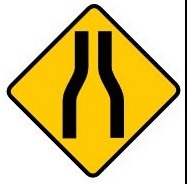
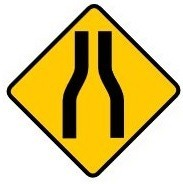
Refine grid layouts for parking/warning/roadwork sections, fix crop defects
- Restricted parking: wide 2-col spans for clearway/EV/accessible signs,
  4-col span for Australia Post box parking; removed stray top black
  line from special-event-clearway-sign-a/b
- Ways to park: full-row layout (figuresGrid cols:1)
- Warning signs: split warning-signs-1.jpg into 3 caption-free images
  (cross-road-ahead, T-intersection give-way, two-lanes-oncoming-traffic);
  fixed stray black line on right edge of two-lanes-oncoming-traffic-sign
  and 10 other diamond signs with an out-of-bounds crop; re-cropped
  children-may-cross/bicycles-ahead/slippery-when-wet/steep-descent from
  the source PDF to fix clipped diamond tops; wrote full Dip caption text
- Roadworks: regrouped worker/traffic-controller signs onto one row,
  widened the roadwork-arrow-vehicle figure to 2 columns
- Lights and horns: full-row layout
- Added explicit background to .hbnav to prevent a transparent gap
  showing through during sticky-scroll repaint

Changed region(s): [[0.0273, 0.0, 1.0, 1.0], [0.3825, 0.163, 0.6284, 0.7609]]

diff --git a/data/handbook.js b/data/handbook.js
@@ -1782,17 +1782,17 @@ window.HANDBOOK = [
         "page": 160,
         "figures": [
           { "src": "images-handbook/no-stopping-sign.jpg", "caption": "'No stopping' sign: no stopping to the left or right of the sign." },
-          { "src": "images-handbook/clearway-end-signs.jpg", "caption": "You must not park between a 'Clearway' and 'End clearway' sign during the times shown." },
-          { "src": "images-handbook/special-event-clearway-sign-a.jpg", "caption": "Special event clearway sign." },
-          { "src": "images-handbook/special-event-clearway-sign-b.jpg", "caption": "Special event clearway sign, roadside version." },
-          { "src": "images-handbook/restricted-parking-area-signs.jpg", "caption": "'Restricted parking area' and 'End restricted parking area' signs." },
+          { "src": "images-handbook/clearway-end-signs.jpg", "caption": "You must not park between a 'Clearway' and 'End clearway' sign during the times shown.", "wide": true },
+          { "src": "images-handbook/special-event-clearway-sign-a.jpg", "caption": "Special event clearway sign.", "wide": true },
+          { "src": "images-handbook/special-event-clearway-sign-b.jpg", "caption": "Special event clearway sign, roadside version.", "wide": true },
+          { "src": "images-handbook/restricted-parking-area-signs.jpg", "caption": "'Restricted parking area' and 'End restricted parking area' signs.", "wide": true },
           { "src": "images-handbook/hourly-parking-signs.jpg", "caption": "Hourly parking signs (7P, quarter-hour, unlimited) show the days and hours parking is allowed." },
-          { "src": "images-handbook/ev-parking-signs-top.jpg", "caption": "EV parking — some spots allow any EV, others only while charging." },
-          { "src": "images-handbook/ev-parking-signs-bottom.jpg", "caption": "EV parking — time-limited spots, some only while charging." },
-          { "src": "images-handbook/accessible-parking-sign.jpg", "caption": "Accessible parking sign — requires a current Mobility Parking Scheme (MPS) permit." },
+          { "src": "images-handbook/ev-parking-signs-top.jpg", "caption": "EV parking — some spots allow any EV, others only while charging.", "wide": true },
+          { "src": "images-handbook/ev-parking-signs-bottom.jpg", "caption": "EV parking — time-limited spots, some only while charging.", "wide": true },
+          { "src": "images-handbook/accessible-parking-sign.jpg", "caption": "Accessible parking sign — requires a current Mobility Parking Scheme (MPS) permit.", "wide": true },
           { "src": "images-handbook/special-event-parking-area-sign.jpg", "caption": "Special event parking area sign — capped parking time unless you hold a permit." },
           { "src": "images-handbook/motorcycle-parking-sign.jpg", "caption": "Motorcycle parking sign — motorcycle-only between the signs." },
-          { "src": "images-handbook/australia-post-box-parking.jpg", "caption": "Parking at least 3m away from an Australia Post box." },
+          { "src": "images-handbook/australia-post-box-parking.jpg", "caption": "Parking at least 3m away from an Australia Post box.", "span": 4 },
           { "src": "images-handbook/taxi-zone-sign.jpg", "caption": "Taxi zone sign — taxi zone on both sides of the sign." },
           { "src": "images-handbook/bus-zone-sign.jpg", "caption": "Bus zone sign — bus zone on both sides of the sign." },
           { "src": "images-handbook/loading-zone-sign.jpg", "caption": "Loading zone sign — loading zone to the left of the sign." },
@@ -1833,6 +1833,7 @@ window.HANDBOOK = [
           { "src": "images-handbook/parallel-parking-1m.jpg", "caption": "Parking at least 1m in front of and back from other parked vehicles." },
           { "src": "images-handbook/angle-parking.jpg", "caption": "Vehicles parking front to the kerb for 45-degree angle parking." }
         ],
+        "figuresGrid": { "cols": 1 },
         "bullets": [],
         "tables": [
           {
@@ -1864,7 +1865,9 @@ window.HANDBOOK = [
         "title": "Warning signs",
         "page": 167,
         "figures": [
-          { "src": "images-handbook/warning-signs-1.jpg", "caption": "'Cross road ahead', T-intersection give-way, and 'changing to two lanes of oncoming traffic' warning signs." },
+          { "src": "images-handbook/cross-road-ahead-sign.jpg", "caption": "Cross road ahead.", "newRow": true },
+          { "src": "images-handbook/t-intersection-give-way-sign.jpg", "caption": "T-intersection give way." },
+          { "src": "images-handbook/two-lanes-oncoming-traffic-sign.jpg", "caption": "Changing to two lanes of oncoming traffic." },
           { "src": "images-handbook/side-road-ahead-sign.jpg", "caption": "Side road ahead.", "newRow": true },
           { "src": "images-handbook/road-curves-right-sign.jpg", "caption": "Road ahead curves to the right." },
           { "src": "images-handbook/sharp-right-turn-sign.jpg", "caption": "Sharp right turn ahead." },
@@ -1885,7 +1888,7 @@ window.HANDBOOK = [
           { "src": "images-handbook/temporary-traffic-hazard-sign.jpg", "caption": "Temporary traffic hazard." },
           { "src": "images-handbook/warning-narrow-bridge-sign.jpg", "caption": "Narrow bridge." },
           { "src": "images-handbook/warning-narrow-bridge-ahead-sign.jpg", "caption": "Narrow bridge ahead." },
-          { "src": "images-handbook/dip-sign.jpg", "caption": "Dip.", "newRow": true },
+          { "src": "images-handbook/dip-sign.jpg", "caption": "The road dips ahead (a sudden slope down, then up).", "newRow": true },
           { "src": "images-handbook/hump-sign.jpg", "caption": "Hump." },
           { "src": "images-handbook/kangaroos-sign.jpg", "caption": "Kangaroos." },
           { "src": "images-handbook/crest-sign.jpg", "caption": "Crest (blind hilltop)." },
@@ -1943,13 +1946,13 @@ window.HANDBOOK = [
           { "src": "images-handbook/roadwork-speed-limit-sign.jpg", "caption": "40km/h speed limit for roadworks.", "newRow": true },
           { "src": "images-handbook/roadwork-prepare-to-stop-sign.jpg", "caption": "Slow down and be prepared to stop." },
           { "src": "images-handbook/roadwork-traffic-controller-sign.jpg", "caption": "Traffic controller ahead. Be prepared to stop." },
-          { "src": "images-handbook/roadwork-worker-sign.jpg", "caption": "Road workers ahead.", "newRow": true },
-          { "src": "images-handbook/roadwork-ahead-sign.jpg", "caption": "Roadwork ahead." },
+          { "src": "images-handbook/roadwork-worker-sign.jpg", "caption": "Road workers ahead." },
+          { "src": "images-handbook/roadwork-ahead-sign.jpg", "caption": "Roadwork ahead.", "newRow": true },
           { "src": "images-handbook/end-roadwork-sign.jpg", "caption": "End of roadwork." },
           { "src": "images-handbook/roadwork-no-lines-sign.jpg", "caption": "No lines — take care overtaking.", "newRow": true },
           { "src": "images-handbook/closed-lane-ahead-sign.jpg", "caption": "Closed lane ahead." },
           { "src": "images-handbook/loose-stones-sign.jpg", "caption": "Loose stones." },
-          { "src": "images-handbook/roadwork-arrow-vehicle.jpg", "caption": "A temporary arrow on a roadwork vehicle warns you that a road hazard is ahead and to change lanes." }
+          { "src": "images-handbook/roadwork-arrow-vehicle.jpg", "caption": "A temporary arrow on a roadwork vehicle warns you that a road hazard is ahead and to change lanes.", "wide": true }
         ],
         "bullets": [],
         "tables": [
@@ -2163,6 +2166,7 @@ window.HANDBOOK = [
           { "src": "images-handbook/highbeam-behind-vehicle.jpg", "caption": "Turn your headlights to low beam when driving within 200m behind another vehicle." },
           { "src": "images-handbook/highbeam-oncoming-vehicle.jpg", "caption": "Turn your headlights to low beam when a vehicle is coming towards you within 200m." }
         ],
+        "figuresGrid": { "cols": 1 },
         "bullets": [],
         "tables": [
           {

diff --git a/css/styles.css b/css/styles.css
@@ -301,6 +301,7 @@ main.app--wide { max-width: 1100px; }
 .hbnav {
   flex: 0 0 250px;
   min-width: 0;
+  background: var(--bg);
   position: sticky;
   top: 154px;                    /* below the sticky topbar + hometabs + hbhead */
   max-height: calc(100vh - 172px);
